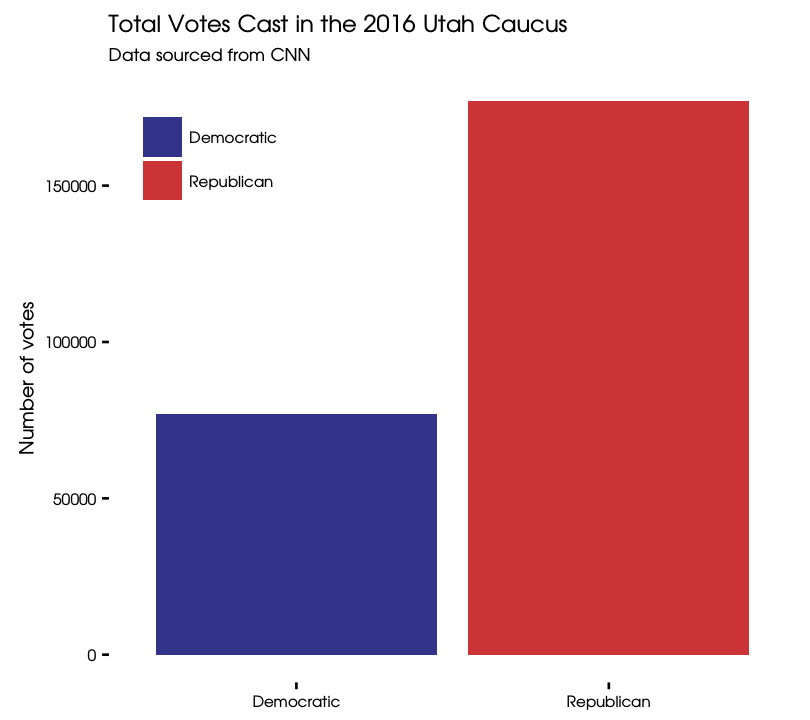
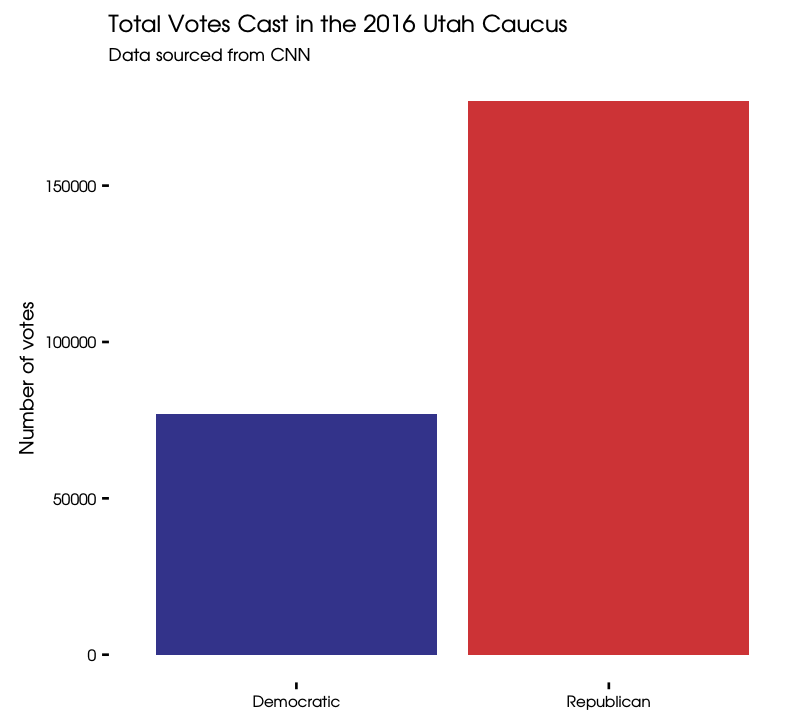
Remove unnecessary legend from caucus blog post

Changed region(s): [[0.1543, 0.1528, 0.3395, 0.275]]

diff --git a/_posts/2016-03-25-Mapping-Utah-Caucus.md b/_posts/2016-03-25-Mapping-Utah-Caucus.md
@@ -210,9 +210,8 @@ library(ggthemes)
 ggplot(votetotals, aes(x = party, y = totalvote, fill = party)) +
         geom_bar(stat = "identity", alpha = 0.8) +
         theme_tufte(base_family = "KerkisSans") +
-        theme(legend.title=element_blank()) +
+        theme(legend.position="none") +
         theme(axis.title.x = element_blank()) +
-        theme(legend.justification=c(0,1), legend.position=c(0,1)) +
         scale_fill_manual(values = c("navyblue", "red3")) +
         labs(title = "Total Votes Cast in the 2016 Utah Caucus", y = "Number of votes",
              subtitle = "Data sourced from CNN")
